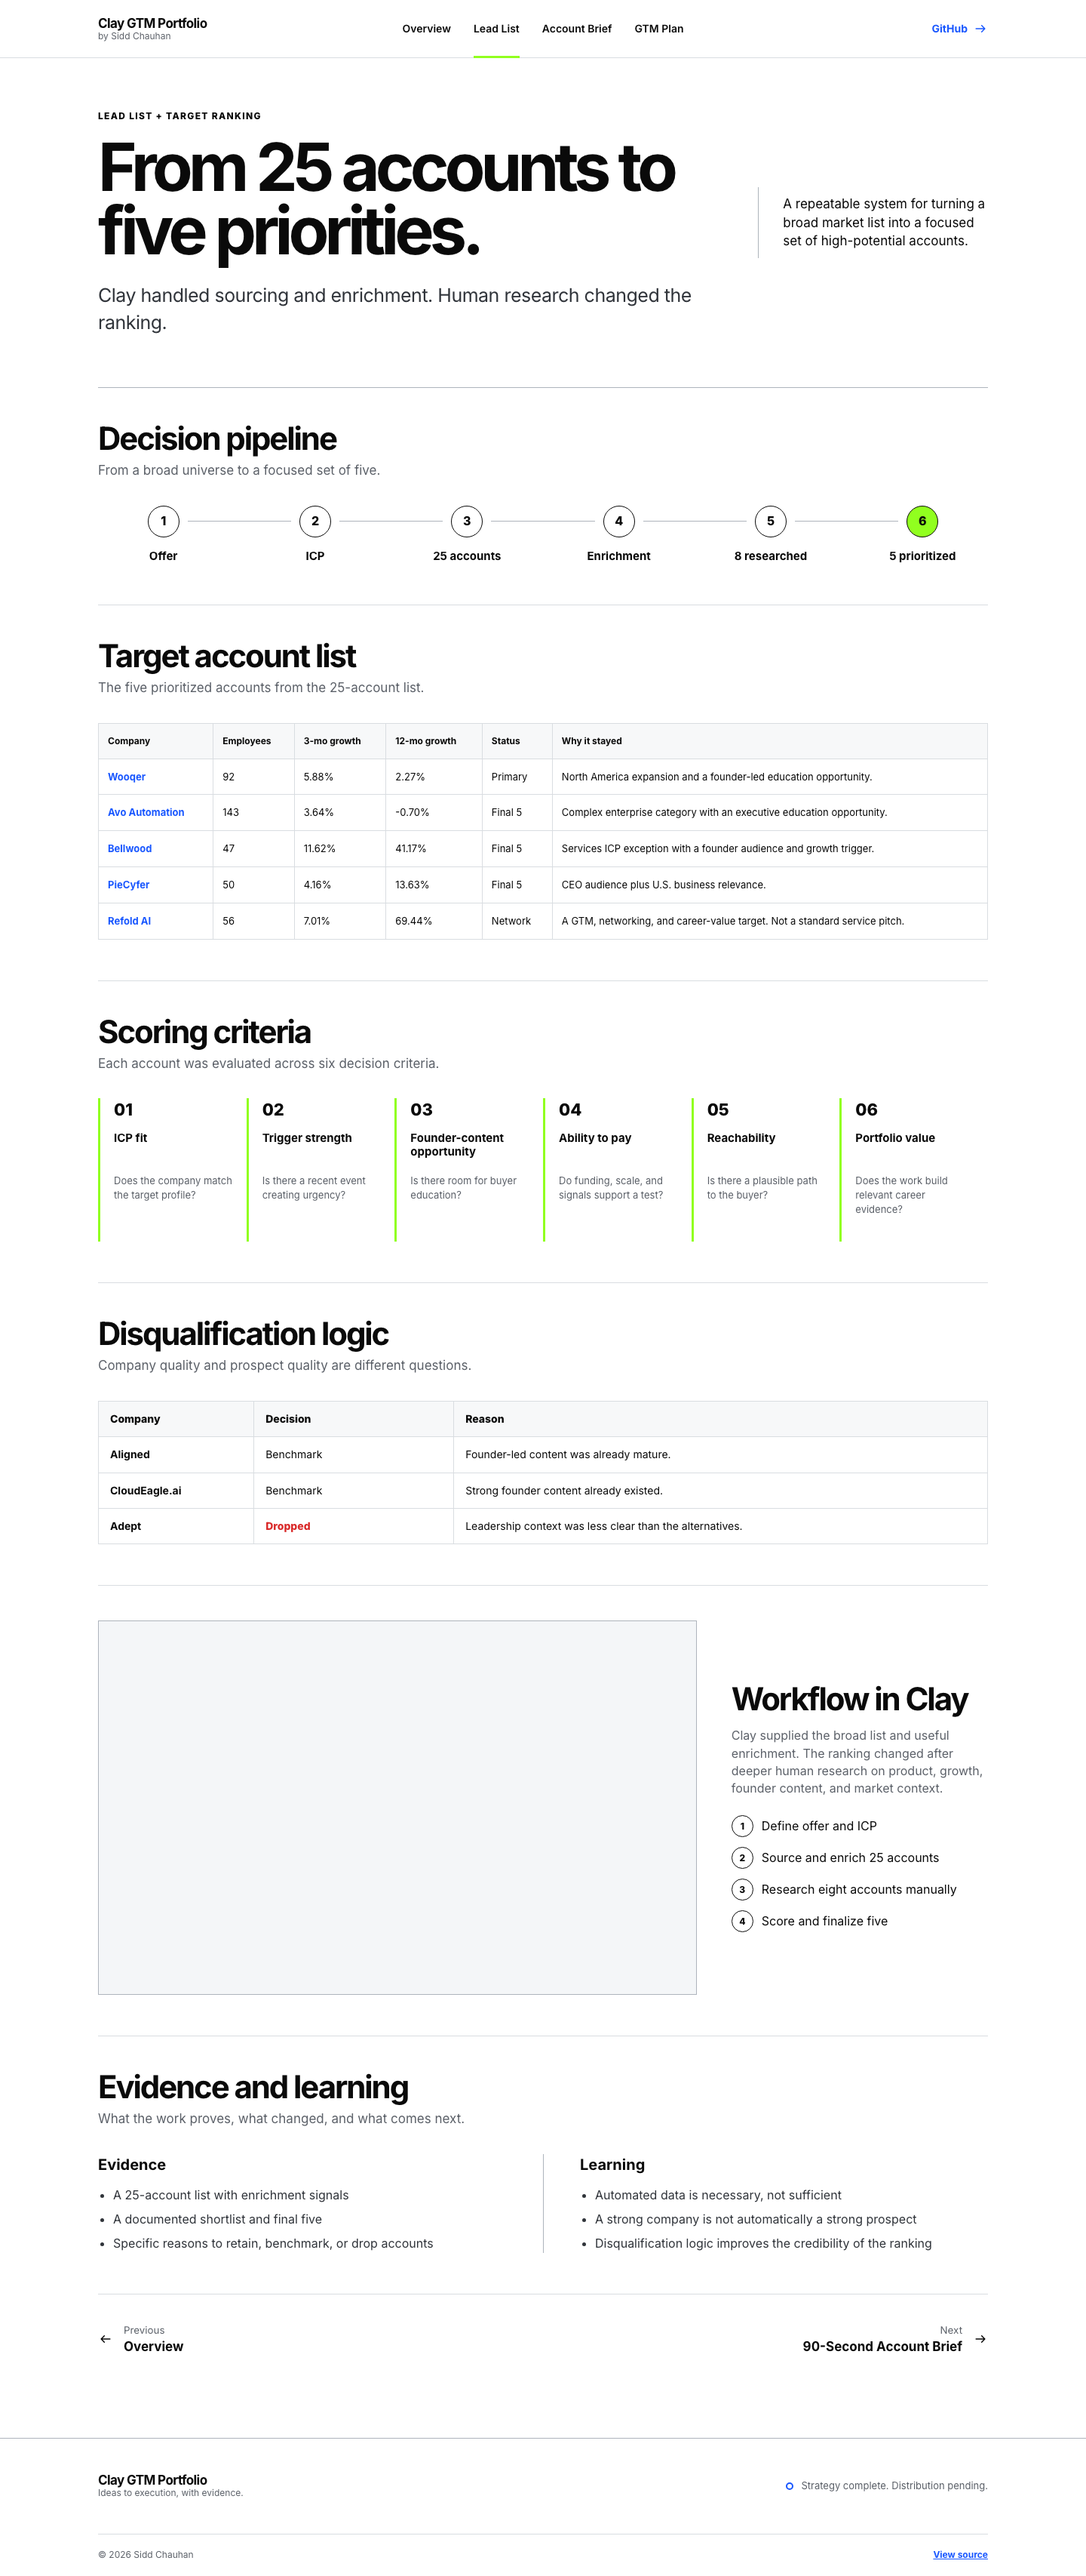
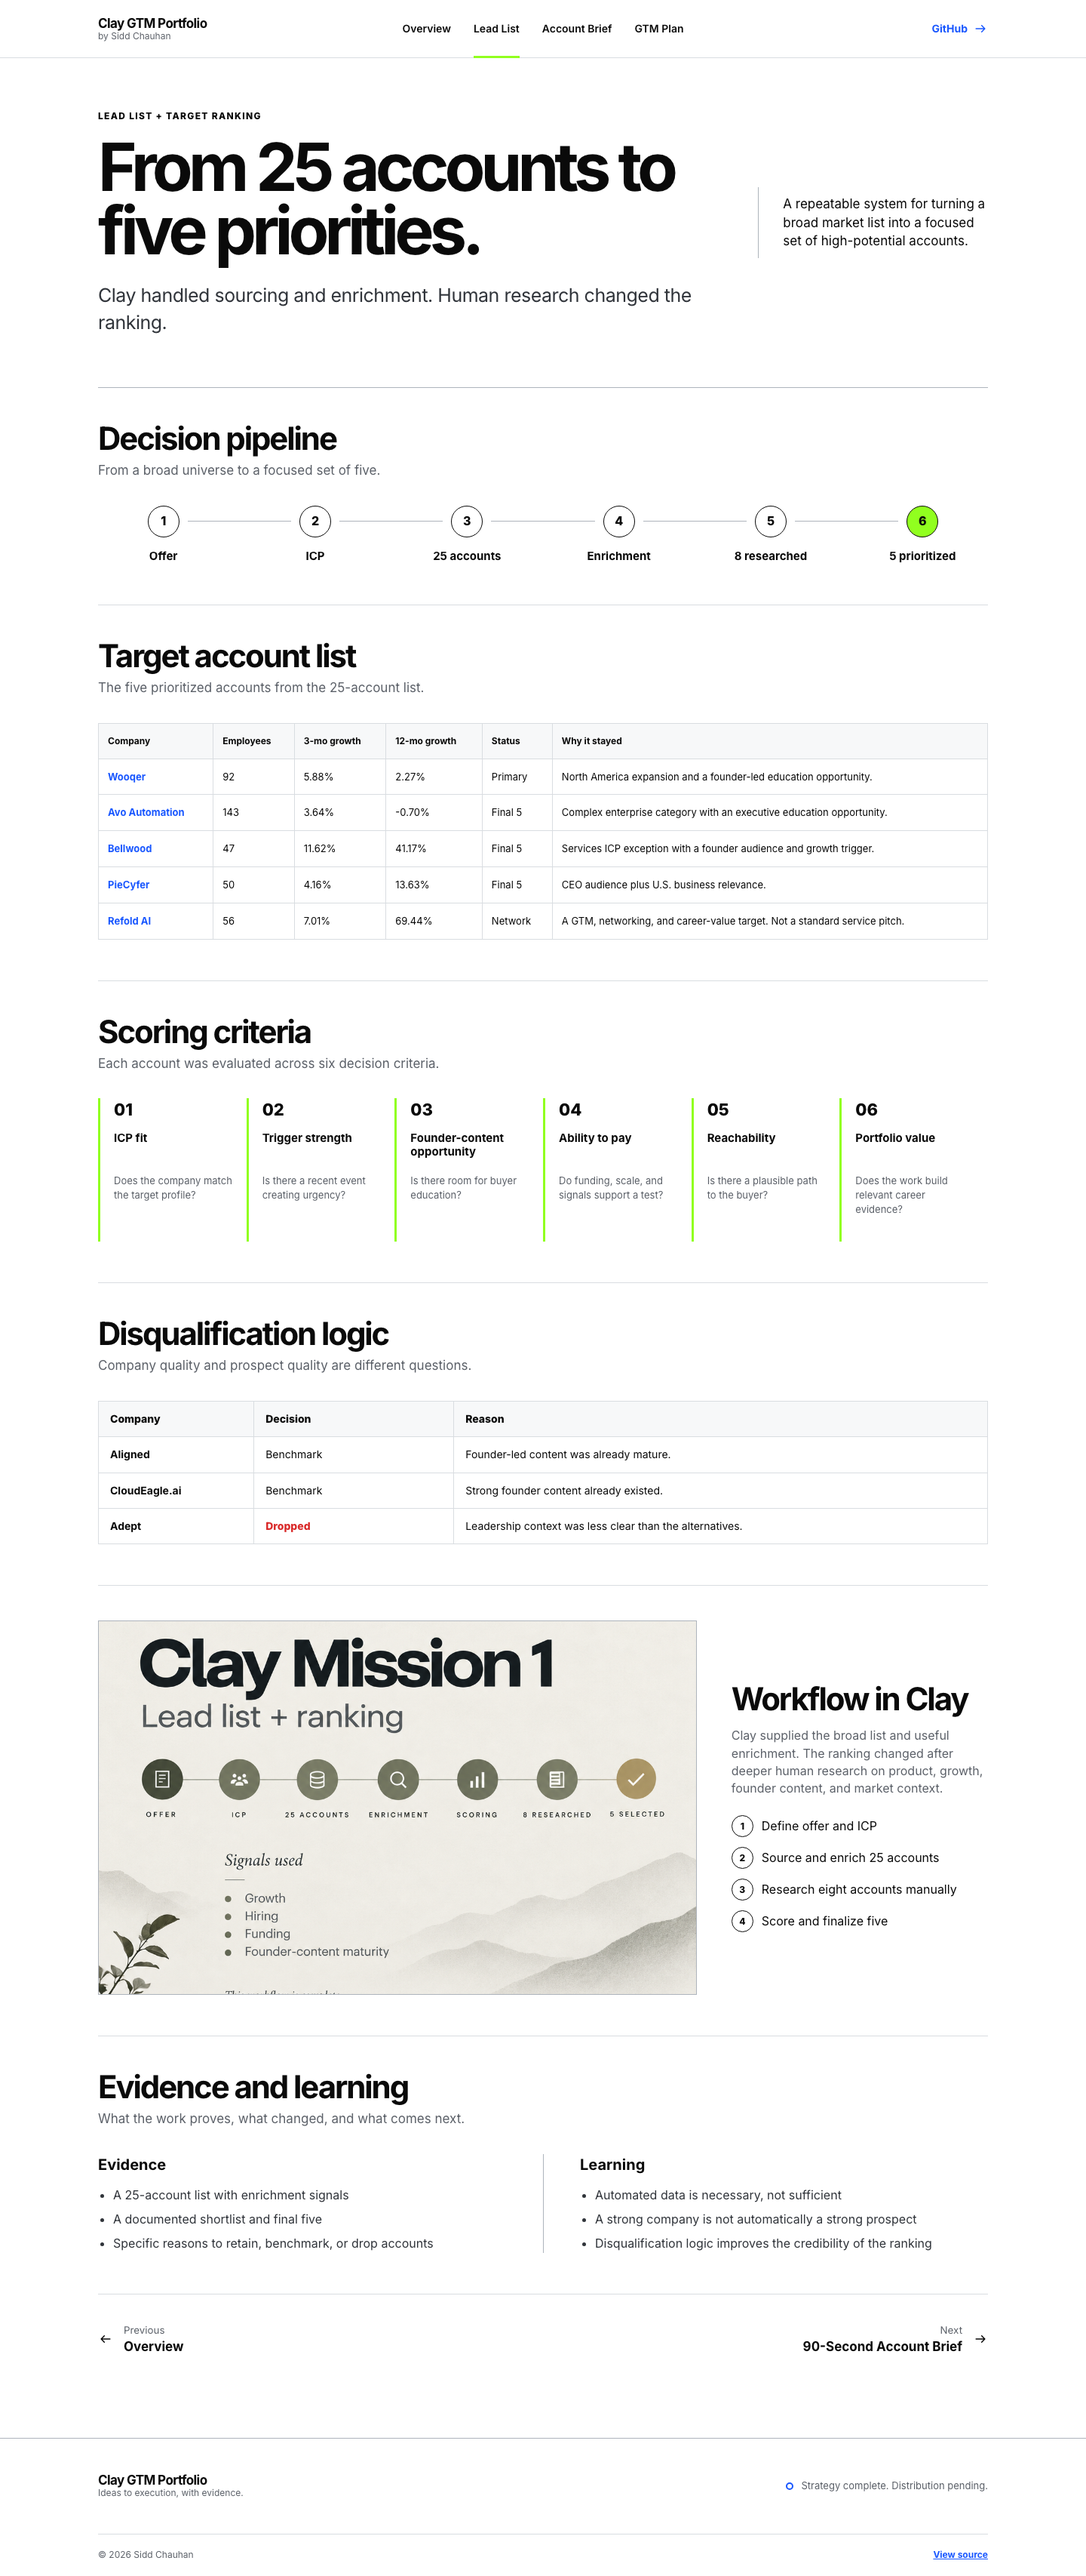
Ensure detail evidence media loads in verification

Changed region(s): [[0.0938, 0.6212, 0.5312, 0.7764], [0.375, 0.6833, 0.6562, 0.7764]]

diff --git a/src/App.jsx b/src/App.jsx
@@ -307,7 +307,7 @@ function Section({ title, intro, children }) {
 }
 
 function MediaSection({ image, alt, reverse = false, children }) {
-  return <section className={`project-section media-section ${reverse ? 'reverse' : ''}`}><figure><img src={image} alt={alt} loading="lazy" decoding="async" /></figure><div className="media-copy">{children}</div></section>
+  return <section className={`project-section media-section ${reverse ? 'reverse' : ''}`}><figure><img src={image} alt={alt} loading="eager" fetchPriority="high" /></figure><div className="media-copy">{children}</div></section>
 }
 
 function TextBlock({ title, body }) {
